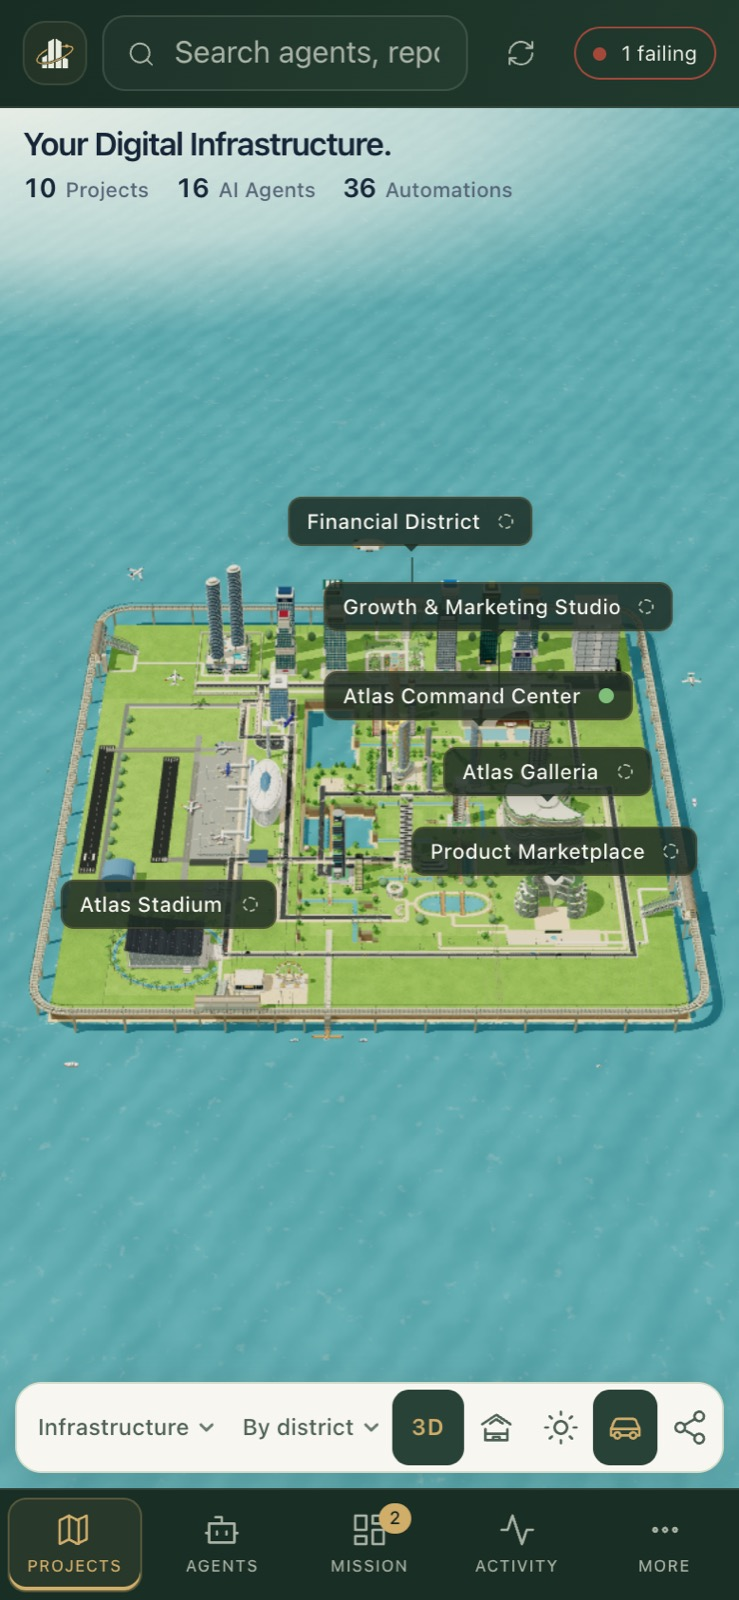
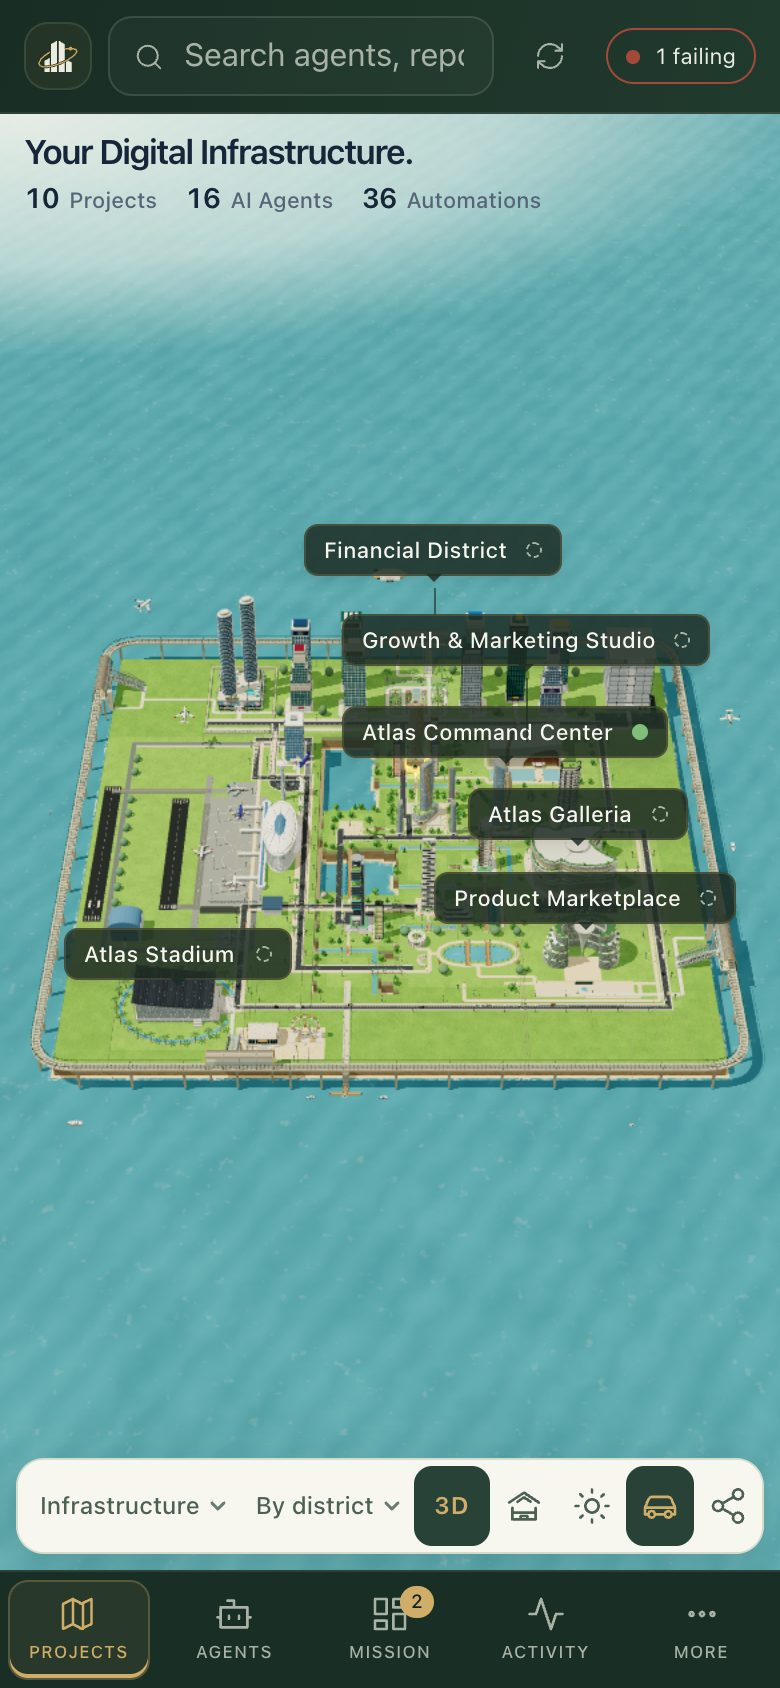
Widen Atlas headquarters and preserve traffic clearance

Changed region(s): [[0.4668, 0.4062, 0.7781, 0.5], [0.8092, 0.4062, 0.8403, 0.4375]]

diff --git a/src/views/mapLayout.ts b/src/views/mapLayout.ts
@@ -223,7 +223,8 @@ export const DISTRICT_MIN_SIZE: Record<string, number> = { "commerce-pipeline": 
  * the usual 0.26: the Commerce tower's podium is the whole teardrop site, half as wide again as
  * the tower (KC, 2026-11-01). Roads, paths and the plaza re-route round the bigger footprint.
  */
-export const DISTRICT_HQ_SHARE: Record<string, number> = { "commerce-pipeline": 0.32 };
+export const DISTRICT_HQ_SHARE: Record<string, number> = { "commerce-pipeline": 0.36 };
+const MATCH_OPERATIONS_WIDTH = new Set(["ai-ops-atlas", "benjaire-site"]);
 
 /** What stands in a district: AI agents inside the headquarters, a house per automation, a kiosk per outside service. */
 function residents(agents: Agent[]) {
@@ -397,7 +398,10 @@ export function layoutMap(catalog: Catalog, uncataloged: string[] = [], groupBy:
       const n = houses.length + services.length;
       const size = it.w;
       const m = n ? ringFor(n) : 2;
-      const hqSize = n ? size * (DISTRICT_HQ_SHARE[project.id] ?? 0.26) : size * 0.34;
+      const operationsWidth = districtSize(0, "intelligence-hub") * .34;
+      const hqSize = Math.max(n ? size * (DISTRICT_HQ_SHARE[project.id] ?? 0.26) : size * 0.34, MATCH_OPERATIONS_WIDTH.has(project.id) ? operationsWidth : 0);
+      // Give the wider central hub a front approach clear of its existing tool offices.
+      const hqSetback = project.id === "ai-ops-atlas" ? .35 : 0;
       const lotSize = (size / m) * 0.52;
       const spots = n ? workflowToolSpots(n, size) : [];
       (CLEARED_LOTS.has(project.id) ? cleared : districts).push({
@@ -407,7 +411,7 @@ export function layoutMap(catalog: Catalog, uncataloged: string[] = [], groupBy:
         oy,
         size,
         // Taller towers for busier projects, from the real agent count.
-        hq: { gx: ox + size / 2 - hqSize / 2, gy: oy + size / 2 - hqSize / 2, size: hqSize, height: ["benjaire-site", "github-profile", "intelligence-hub", "benjaire-ops", "soc-lab", "portfolio-site"].includes(project.id) ? 112 : 64 + Math.min(agents.length, 12) * 3 },
+        hq: { gx: ox + size / 2 - hqSize / 2, gy: oy + size / 2 - hqSize / 2 - hqSetback, size: hqSize, height: ["benjaire-site", "github-profile", "intelligence-hub", "benjaire-ops", "soc-lab", "portfolio-site"].includes(project.id) ? 112 : 64 + Math.min(agents.length, 12) * 3 },
         lots: houses.map((a, k) => ({
           agent: a,
           gx: ox + spots[k].gx - lotSize / 2,

diff --git a/src/views/centralHub.test.ts b/src/views/centralHub.test.ts
@@ -8,13 +8,24 @@ describe('central command district',()=>{
   const hub=layout.districts.find(d=>d.project.id==='ai-ops-atlas')!;
   expect(hub).toMatchObject({ox:19.5,oy:14.75,size:5});
   expect(layout.cleared?.find(d=>d.project.id==='benjaire-ops')).toMatchObject({ox:0,oy:14.75,size:5});
-  expect(scene.towers.find(t=>t.projectId==='ai-ops-atlas')).toMatchObject({x:22,z:17.25});
+  expect(scene.towers.find(t=>t.projectId==='ai-ops-atlas')).toMatchObject({x:22,z:16.9});
   expect(hub.crew.map(a=>a.id)).toEqual(catalog.agents.filter(a=>a.projectId==='ai-ops-atlas').map(a=>a.id));
  });
  it('preserves Marketplace, Galleria and marketing studio anchors',()=>{
   expect(scene.mall).toMatchObject({x:24.3875,z:35.175,w:12.4,d:11.6});
   expect(scene.agency).toMatchObject({x:20.825,w:9.6,d:4.8});expect(scene.agency!.z).toBeCloseTo(-.175);
   expect(layout.districts.find(d=>d.project.id==='intelligence-hub')).toMatchObject({ox:26.75,oy:12.25});
+ });
+ it('widens the three headquarters without changing their land parcels',()=>{
+  const get=(id:string)=>layout.districts.find(d=>d.project.id===id)!;
+  const reference=get('intelligence-hub');
+  for(const id of ['ai-ops-atlas','benjaire-site'])expect(get(id).hq.size).toBeCloseTo(reference.hq.size);
+  expect(get('commerce-pipeline').hq.size).toBeCloseTo(3.6);
+  expect(get('commerce-pipeline').size).toBe(10);expect(get('benjaire-site').size).toBe(7.5);
+  for(const id of ['ai-ops-atlas','benjaire-site','commerce-pipeline']) {
+   const d=get(id),hq=d.hq;
+   for(const lot of [...d.lots,...d.kiosks])expect(hq.gx+hq.size+.15<=lot.gx||lot.gx+lot.size+.15<=hq.gx||hq.gy+hq.size+.15<=lot.gy||lot.gy+lot.size+.15<=hq.gy).toBe(true);
+  }
  });
  it('keeps hub lots within its parcel and bridge endpoints aligned',()=>{
   const hub=layout.districts.find(d=>d.project.id==='ai-ops-atlas')!;

diff --git a/src/views/map3d/commerceTower.test.ts b/src/views/map3d/commerceTower.test.ts
@@ -2,7 +2,7 @@ import {readFileSync,readdirSync} from 'node:fs';
 import {join} from 'node:path';
 import {describe,expect,it} from 'vitest';
 import {catalog} from '../../catalog';
-import {layoutMap,DISTRICT_MIN_SIZE,type GroupBy} from '../mapLayout';
+import {layoutMap,DISTRICT_MIN_SIZE,DISTRICT_HQ_SHARE,type GroupBy} from '../mapLayout';
 import {buildScene} from './scene';
 import {towerTop} from './models';
 import {isRibbonTower} from './ribbonTowerPlan';
@@ -17,7 +17,7 @@ describe('Commerce Pipeline teardrop tower',()=>{
   expect(isCommerceTower('commerce-pipeline')).toBe(true);expect(isCommerceTower('benjaire-site')).toBe(false);
   for(const grouping of GROUPINGS){
    const scene=buildScene(layoutMap(catalog,[],grouping)),t=scene.towers.find(t=>isCommerceTower(t.projectId))!;
-   expect(t.name).toBe('Commerce Operations Center');expect(t.size).toBeCloseTo(COMMERCE.refSize,3);
+   expect(t.name).toBe('Commerce Operations Center');expect(t.size).toBeCloseTo(DISTRICT_MIN_SIZE[COMMERCE.projectId]*DISTRICT_HQ_SHARE[COMMERCE.projectId]*.92,3);expect(t.size).toBeGreaterThan(COMMERCE.refSize);
   }
  });
  it('widens the Commerce district where it stands, so Benjaire HQ keeps its place',()=>{

diff --git a/src/views/map3d/vehicles.test.ts b/src/views/map3d/vehicles.test.ts
@@ -69,7 +69,7 @@ describe("decorative vehicles", () => {
         for (const h of scene.houses) expect(inside({ x: h.x - h.w / 2, z: h.z - h.d / 2, w: h.w, d: h.d }, x, z, 0.08), `${v.id} inside ${h.key} at ${x},${z}`).toBe(false);
         // Towers, with their entrance stairs out front.
         for (const w of scene.towers) expect(inside({ x: w.x - w.size / 2, z: w.z - w.size / 2, w: w.size, d: w.size + 0.24 }, x, z, 0.08), `${v.id} inside ${w.projectId} at ${x},${z}`).toBe(false);
-        for (const k of scene.kiosks) expect(inside({ x: k.x - k.size / 2, z: k.z - k.size / 2, w: k.size, d: k.size }, x, z, 0.08), `${v.id} inside ${k.key}`).toBe(false);
+        for (const k of scene.kiosks) expect(inside({ x: k.x - k.size / 2, z: k.z - k.size / 2, w: k.size, d: k.size }, x, z, 0.08), `${v.id} inside ${k.key} at ${x},${z}`).toBe(false);
         for (const f of scene.fountains) expect(Math.hypot(x - f.x, z - f.z), `${v.id} in a fountain`).toBeGreaterThan(FOUNTAIN_R * (f.k ?? 1) + 0.08);
       }
     }

diff --git a/src/views/map3d/vehicles.ts b/src/views/map3d/vehicles.ts
@@ -125,7 +125,7 @@ export function drivingGraph(scene: Scene3D): { nodes: Pt3[]; next: number[][]; 
     return -dz * cx + dx * cz > 0 ? 0 : 2 * LANE_OFF;
   };
   // A street whose lanes would brush a tower or its entrance stairs is left to pedestrians.
-  const towerHit = (x: number, z: number) => scene.towers.some(w => Math.abs(x - w.x) < w.size / 2 + 0.1 && z > w.z - w.size / 2 - 0.1 && z < w.z + w.size / 2 + 0.24 + 0.1);
+  const towerHit = (x: number, z: number) => scene.towers.some(w => Math.abs(x - w.x) < w.size / 2 + 0.1 && z > w.z - w.size / 2 - 0.1 && z < w.z + w.size / 2 + 0.24 + 0.1) || scene.kiosks.some(k => Math.abs(x - k.x) < k.size / 2 + 0.2 && Math.abs(z - k.z) < k.size / 2 + 0.2);
   const brushes = (i: number, j: number) => {
     const a = g.nodes[i], b = g.nodes[j], l = flatLen(a, b) || 1, nx = -(b[2] - a[2]) / l, nz = (b[0] - a[0]) / l;
     const off = lane(i, j), steps = Math.ceil(l / 0.05);

diff --git a/docs/central-command-center/README.md b/docs/central-command-center/README.md
@@ -1,14 +1,16 @@
 # Central Command Center
 
-Atlas’s whole 5×5 parcel exchanges places with the equal-sized cleared former Dashboard parcel. Hub center moves from (2.5,17.25) to (22,17.25). This is the center of the project campus, not a redesign of the entire square city. Terrain bounds, building scale and architecture stay unchanged. Hub worker lots, selection, interior origins and walkway endpoints derive from the relocated shared district data.
+Atlas’s whole 5×5 parcel exchanges places with the equal-sized cleared former Dashboard parcel. Hub center moves from (2.5,17.25) to (22,16.9). This is the center of the project campus, not a redesign of the entire square city. Terrain bounds and architecture stay unchanged. Command Center and Business Operations HQ now use Agent Operations Center’s logical footprint width (2.55 units); Commerce grows from 3.2 to 3.6 units. Heights and parcel boundaries are unchanged. The Command Center has a small rear setback to preserve frontage clearance. Hub worker lots, selection, interior origins and walkway endpoints derive from the relocated shared district data.
 
 Growth & Marketing Studio and Product Marketplace remain at the same coordinates; Galleria retains its existing placement. The old hub location is lawn. No agents, ownership or integrations change. The hub’s overview nameplate gets higher collision priority.
 
 If repository filtering removes part of the expected campus, the existing packing remains in use so Marketplace and Galleria can still find their parcels.
 
+Traffic planning excludes kiosk footprints with a 0.2-unit turning allowance, retaining city traffic without clipping tool offices.
+
 ## Validation
 
-59 focused layout, Marketplace and Galleria checks passed. Lint, type checks and build passed. Three day/night/phone building-selection checks passed. Screenshots use fixtures, not live operational evidence. Full suite: 1335 passed; the unchanged map timing guard failed under full-suite load, then passed in an isolated 13-test scene/hub run. No baselines changed.
+52 focused layout, geometry, traffic and scene checks passed. Type checks, lint and build passed. Three day/night/phone building-selection checks passed and screenshots were reviewed. Full suite: 1336 passed; the unchanged map timing guard failed under suite load, then passed in the isolated scene run. No baselines changed. Screenshots use fixtures, not live operational evidence.
 
 [Before day](before/day.jpg) · [After day](after/day.jpg) · [Before night](before/night.jpg) · [After night](after/night.jpg) · [Before phone](before/phone.jpg) · [After phone](after/phone.jpg)
 

diff --git a/CHANGELOG.md b/CHANGELOG.md
@@ -3,7 +3,7 @@
 What changed in Atlas, newest first. Every pull request that changes the app adds one line at the
 top of the list: `- YYYY-MM-DD · What changed, in plain words (#201)`. The newest five lines are
 shown in the Mac app's **Update available** button, so write them for KC, not for a reviewer.
-- 2026-11-11 · Atlas Command Center now sits in the central project district, with its workers and connections moved together (#363)
+- 2026-11-11 · Atlas Command Center now sits in the central project district, with wider Command Center, Business HQ and Commerce buildings and clear traffic routes (#363)
 - 2026-11-10 · Behind the scenes, the Inside view's screenshot check finds Atlas Command Center by its new name, and the map screenshots are refreshed for the new building names. Nothing on screen changes (#326)
 - 2026-11-11 · Settings has a Time zone picker, set to New York (Eastern Time). It opens on a short list of common zones, with every other zone under Show all and in search. Every date and time in Atlas follows it (#356)
 - 2026-11-11 · Buildings like the Growth & Marketing Studio now show a green dot by their name on the map once their telemetry is connected and healthy (amber when partly live, red when failing). Buildings with nothing connected keep the dashed planned dot (#359)
